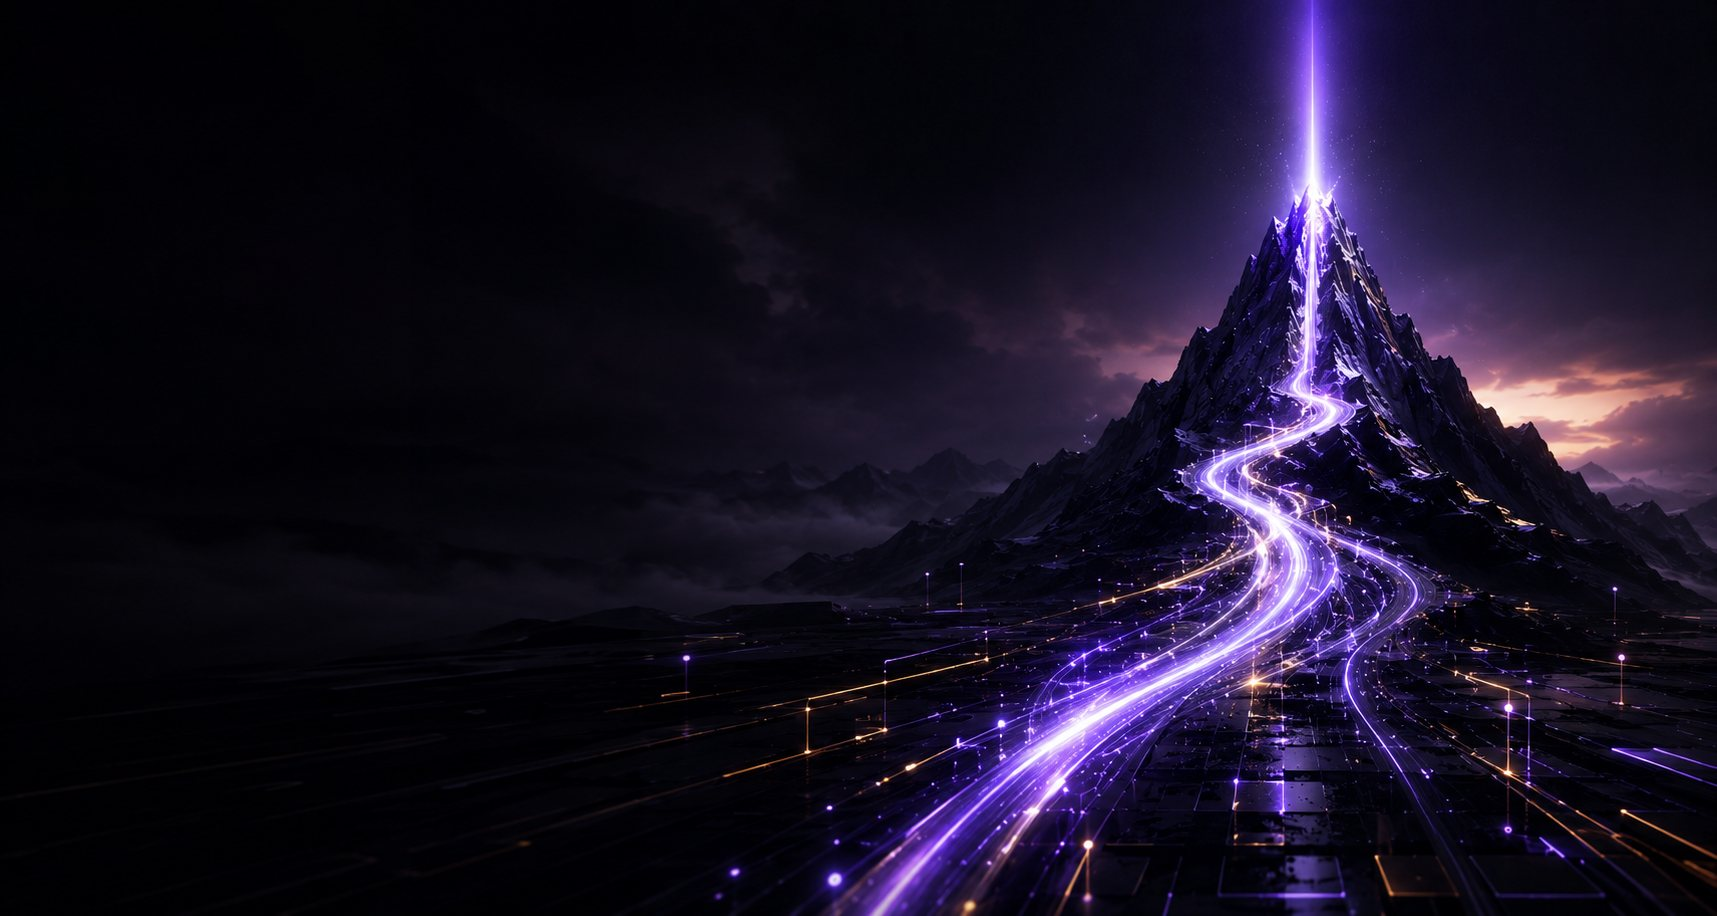
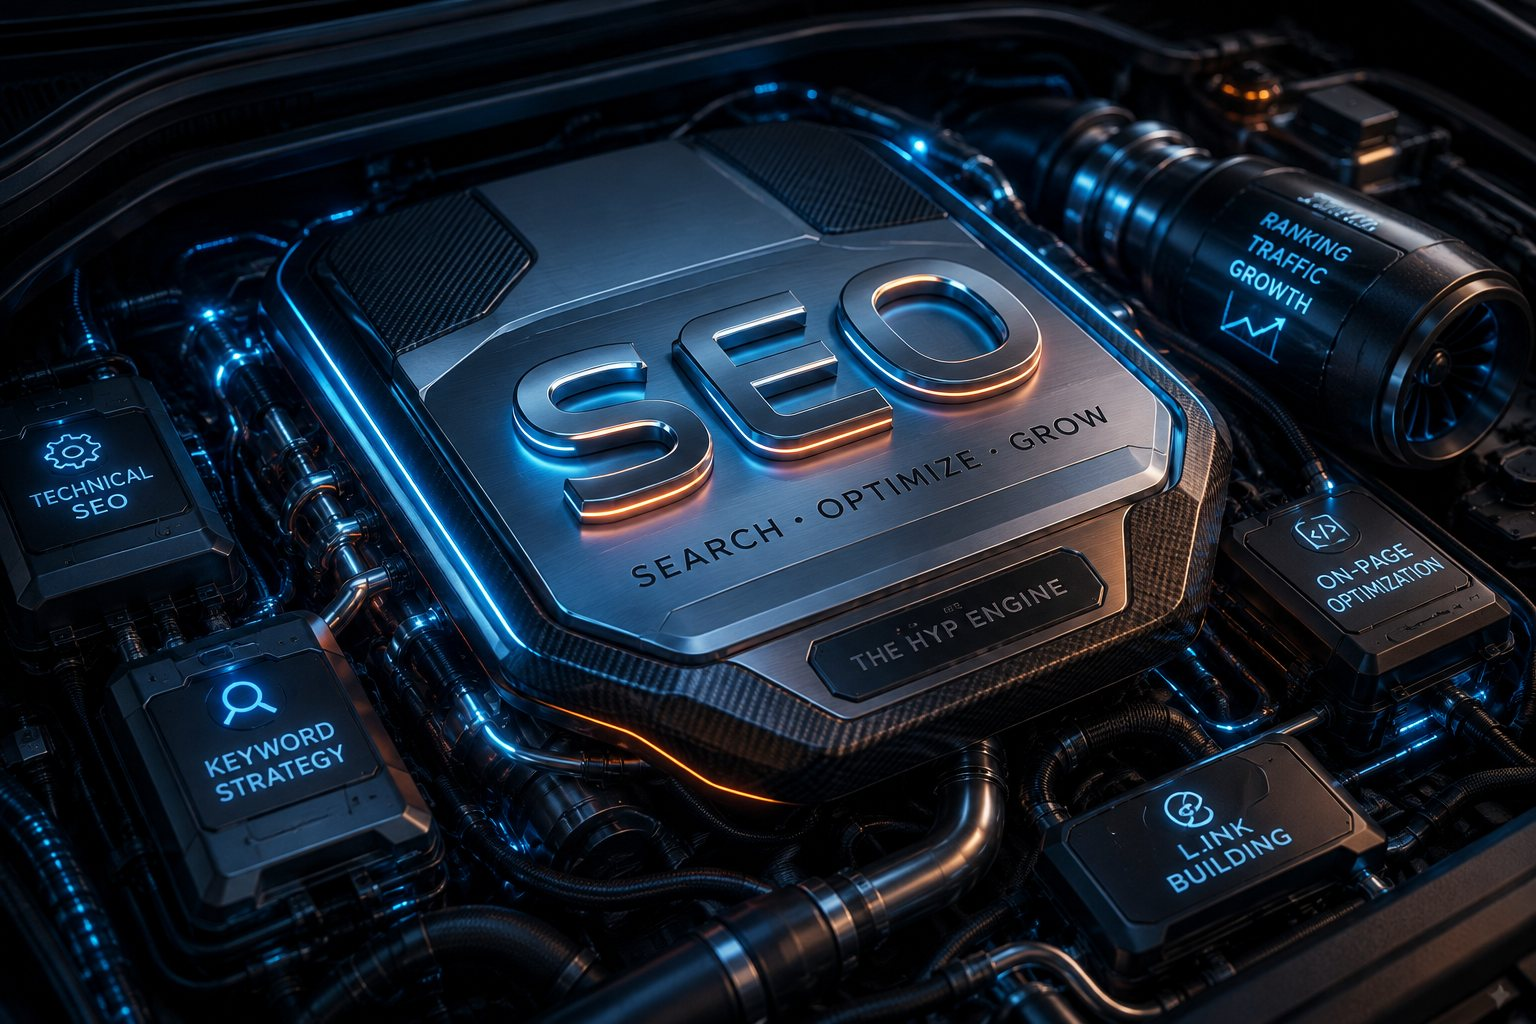
Replace SEO page hero image with user-provided engine-themed graphic, update alt text to match

diff --git a/seo/index.html b/seo/index.html
@@ -159,7 +159,7 @@
   <section class="hero" style="padding:64px 0 60px;">
     <div class="wrap">
       <div class="service-hero-photo">
-        <img src="/assets/seo-hero.jpg" alt="Abstract dark visual representing search visibility and organic growth" class="service-hero-img">
+        <img src="/assets/seo-hero.jpg" alt="Close-up of a stylized engine labeled SEO, with modules for keyword strategy, technical SEO, on-page optimization, and link building" class="service-hero-img">
         <div class="service-hero-scrim"></div>
         <div class="service-hero-content">
           <p class="hero-badge-main" style="font-family:var(--mono); font-size:12px; color:var(--signal); letter-spacing:.08em; text-transform:uppercase;">Search & Organic</p>
